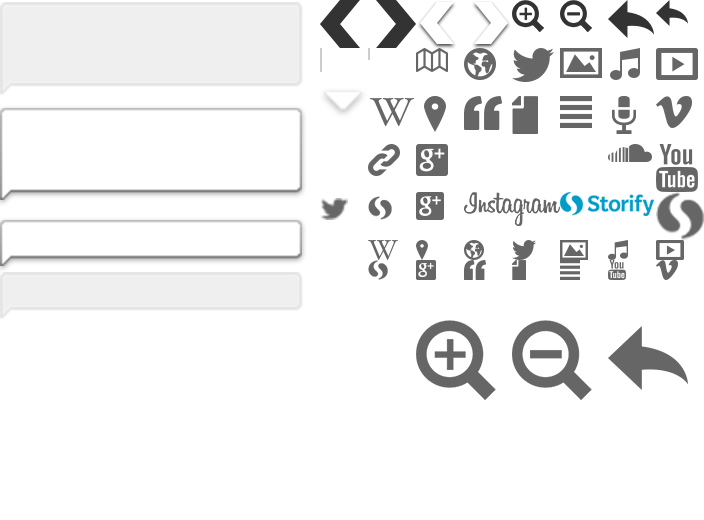
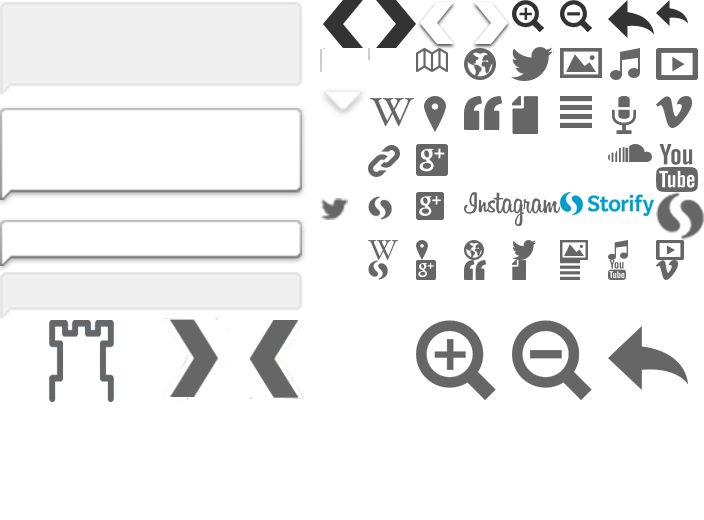
添加图片浏览，添加时间轴工具栏

diff --git a/src/main/webapp/front/timelinef/js/timeline-min.js b/src/main/webapp/front/timelinef/js/timeline-min.js
@@ -42,6 +42,22 @@ function onYouTubePlayerAPIReady() {
     trace("GLOBAL YOUTUBE API CALLED");
     VMM.ExternalAPI.youtube.onAPIReady()
 }
+function fp_10(){
+	alert("p10");
+}
+function fn_10(){
+	alert("n10");
+}
+var s = 1;
+function close_toolbar(){
+	if(s == 1){
+		$(".vco-toolbar").animate({left:'-250px'})
+		s = 2;
+	}else{
+		$(".vco-toolbar").animate({left:'0px'})
+		s = 1;
+	}
+}
 var iisfirst = 1;
 (function() {
     var e = !1
@@ -5175,14 +5191,57 @@ typeof VMM.Timeline != "undefined" && typeof VMM.Timeline.TimeNav == "undefined"
         }
         y = new VMM.DragSlider;
         y.createPanel(x, r, b.nav.constraint, b.touch);
-//        if (b.touch && b.start_page) {
-//            VMM.Lib.addClass(v, "touch");
-//            VMM.Lib.css(v, "top", 55);
-//            VMM.Lib.css(v, "left", 10)
-//        } else {
-            b.start_page && VMM.Lib.css(v, "top", 27);
-            m = VMM.appendAndGetElement(v, "<div>", "zoom-in", "<div class='icon'></div>");
-            g = VMM.appendAndGetElement(v, "<div>", "zoom-out", "<div class='icon'></div>");
+        if (b.touch && b.start_page) {
+            VMM.Lib.addClass(v, "touch");
+            //VMM.Lib.css(v, "top", 355);
+            VMM.Lib.css(v, "left", 0)
+            VMM.Lib.css(v, "border", "0px")
+            //VMM.Lib.css(v, "display", "none");display: inline-block;
+            //VMM.Lib.css(v, "display", "inline-block");
+            b.start_page && VMM.Lib.css(v, "top",-47);
+            
+            var style__ = "style='background-image: url(timeline.png?v4.4);background-repeat: no-repeat;background-position: -108px -160px;width: 40px;height: 40px;'";
+            m = VMM.appendAndGetElement(v, "<div>", "zoom-in smalltool", "<div class='icon'></div>");
+            g = VMM.appendAndGetElement(v, "<div>", "zoom-out smalltool", "<div class='icon'></div>");
+            p10 = VMM.appendAndGetElement(v, "<div>", "zoom-in smalltool", "<div class='icon' "+ style__ +"></div>");
+            n10 = VMM.appendAndGetElement(v, "<div>", "zoom-in smalltool", "<div class='icon' "+ style__ +"></div>");
+            c10 = VMM.appendAndGetElement(v, "<div>", "zoom-in smalltool", "<div class='icon' "+ style__ +"></div>");
+            
+            VMM.Lib.css(p10, "float", "left");
+            VMM.Lib.css(n10, "float", "left");
+            VMM.Lib.css(m, "float", "left");
+            VMM.Lib.css(g, "float", "left");
+            VMM.Lib.css($backhome, "float", "left");
+            VMM.Lib.css(c10, "float", "left");
+            
+            VMM.Lib.css(p10, "background", "rgba(251, 248, 251, 0.2)");
+            VMM.Lib.css(n10, "background", "rgba(251, 248, 251, 0.2)");
+            VMM.Lib.css(m, "background", "rgba(251, 248, 251, 0.2)");
+            VMM.Lib.css(g, "background", "rgba(251, 248, 251, 0.2)");
+            VMM.Lib.css($backhome, "background", "rgba(251, 248, 251, 0.2)");
+            VMM.Lib.css(c10, "background", "rgba(251, 248, 251, 0.2)");
+            
+            VMM.Lib.css(p10, "border", "0px");
+            VMM.Lib.css(n10, "border", "0px");
+            VMM.Lib.css(m, "border", "0px");
+            VMM.Lib.css(g, "border", "0px");
+            VMM.Lib.css($backhome, "border", "0px");
+            VMM.Lib.css(c10, "border", "0px");
+            
+            VMM.Lib.css(p10, "box-shadow", "none");
+            VMM.Lib.css(n10, "box-shadow", "none");
+            VMM.Lib.css(m, "box-shadow", "none");
+            VMM.Lib.css(g, "box-shadow", "none");
+            VMM.Lib.css($backhome, "box-shadow", "none");
+            VMM.Lib.css(c10, "box-shadow", "none");
+            
+            VMM.Lib.attribute(p10, "title", "上翻")
+            VMM.Lib.attribute(c10, "title", "工具")
+            VMM.Lib.attribute(n10, "title", "下翻")
+            //添加上翻，下翻
+            VMM.bindEvent(p10, fp_10, "click");
+            VMM.bindEvent(n10, fn_10, "click");
+            VMM.bindEvent(c10, close_toolbar, "click");
             VMM.bindEvent(m, X, "click");
             VMM.bindEvent(g, V, "click");
             VMM.Lib.attribute(m, "title", VMM.master_config.language.messages.expand_timeline);
@@ -5195,7 +5254,32 @@ typeof VMM.Timeline != "undefined" && typeof VMM.Timeline.TimeNav == "undefined"
             });
             VMM.bindEvent(x, J, "DOMMouseScroll");
             VMM.bindEvent(x, J, "mousewheel")
-//        }
+        } else {
+            b.start_page && VMM.Lib.css(v, "top", 7);
+            m = VMM.appendAndGetElement(v, "<div>", "zoom-in", "<div class='icon'></div>");
+            g = VMM.appendAndGetElement(v, "<div>", "zoom-out", "<div class='icon'></div>");
+            p10 = VMM.appendAndGetElement(v, "<div>", "zoom-in", "<div class='icon'></div>");
+            n10 = VMM.appendAndGetElement(v, "<div>", "zoom-in", "<div class='icon'></div>");
+            VMM.Lib.attribute(p10, "rel", "timeline-tooltip")
+            VMM.Lib.attribute(p10, "title", "上翻")
+            VMM.Lib.attribute(n10, "rel", "timeline-tooltip")
+            VMM.Lib.attribute(n10, "title", "下翻")
+            //添加上翻，下翻
+            VMM.bindEvent(p10, fp_10, "click");
+            VMM.bindEvent(n10, fn_10, "click");
+            VMM.bindEvent(m, X, "click");
+            VMM.bindEvent(g, V, "click");
+            VMM.Lib.attribute(m, "title", VMM.master_config.language.messages.expand_timeline);
+            VMM.Lib.attribute(m, "rel", "timeline-tooltip");
+            VMM.Lib.attribute(g, "title", VMM.master_config.language.messages.contract_timeline);
+            VMM.Lib.attribute(g, "rel", "timeline-tooltip");
+            v.tooltip({
+                selector: "div[rel=timeline-tooltip]",
+                placement: "right"
+            });
+            VMM.bindEvent(x, J, "DOMMouseScroll");
+            VMM.bindEvent(x, J, "mousewheel")
+        }
         if (b.nav.zoom.adjust != 0)
             if (b.nav.zoom.adjust < 0)
                 for (e = 0; e < Math.abs(b.nav.zoom.adjust); e++)

diff --git a/src/main/webapp/front/timelinef/css/timeline.css b/src/main/webapp/front/timelinef/css/timeline.css
@@ -2025,14 +2025,14 @@
     box-shadow: 1px 1px 0 rgba(0,0,0,0.2)
 }
 
-.vco-timeline .vco-navigation .vco-toolbar .zoom-in,.vco-timeline .vco-navigation .vco-toolbar .zoom-out,.vco-timeline .vco-navigation .vco-toolbar .back-home {
+.vco-timeline .vco-navigation .vco-toolbar .zoom-in,.vco-timeline .vco-navigation .vco-toolbar .zoom-out,.vco-timeline .vco-navigation .vco-toolbar .back-home{
     font-weight: normal;
     font-size: 10px;
     line-height: 20px;
     top: 0;
     z-index: 202;
     width: 18px;
-    height: 18px;
+    height: 14px;
     color: #333;
     text-align: center;
     font-weight: bold;
@@ -2050,6 +2050,11 @@
     background-position: -256px 0;
     width: 24px;
     height: 24px
+}
+
+.smalltool .icon {
+    width: 16px;
+    height: 16px;
 }
 
 .vco-timeline .vco-navigation .vco-toolbar .zoom-out .icon {
